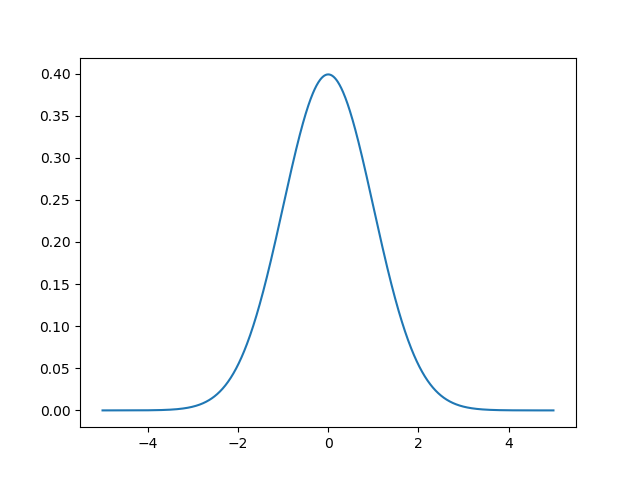
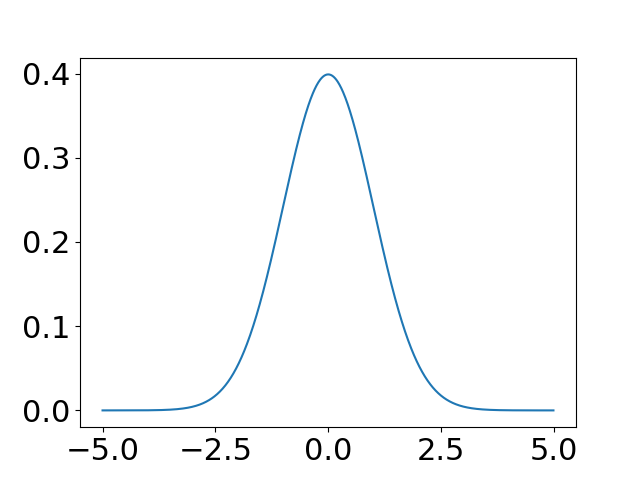
errormodel font size

diff --git a/errormodel/errormodel.py b/errormodel/errormodel.py
@@ -1,6 +1,9 @@
+import matplotlib
 import matplotlib.pyplot as plt
 import scipy.stats as stats
 import numpy as np
+
+matplotlib.rcParams.update({'font.size': 22})
 
 plt.figure()
 x_axis = np.arange(-5, 5, 0.01)
